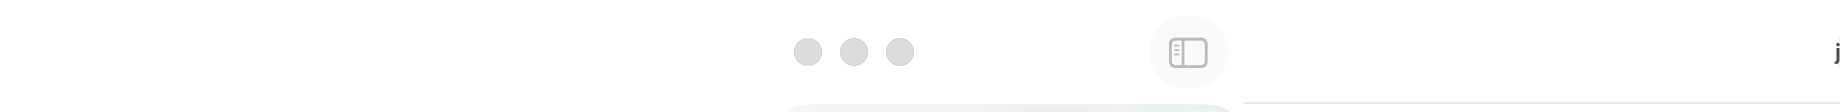
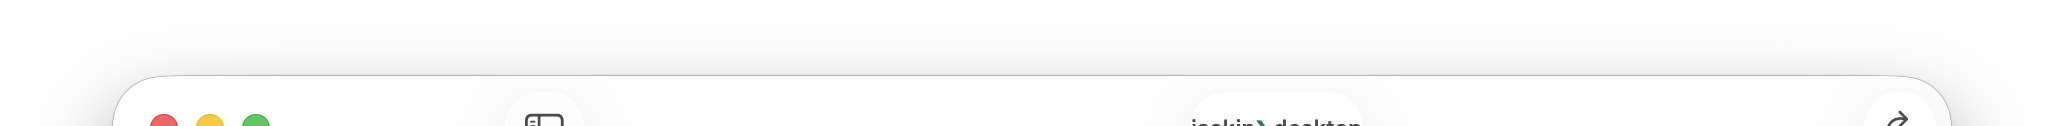
fix(desktop): align active sidebar selection
Active key-window evidence exposed system-blue List selection hidden by inactive captures. Own navigation selection so active pixels retain HTML phosphor well.

diff --git a/native/Sources/JackinDesktop/UsageWindow/UsageWindowRoot.swift b/native/Sources/JackinDesktop/UsageWindow/UsageWindowRoot.swift
@@ -18,8 +18,6 @@ public struct UsageWindowRoot: View {
         self.store = store
     }
 
-    private static let overviewId = "__overview__"
-
     private var model: UsageWindowModel {
         UsageWindowModel(
             glanceRows: store.providerGlanceRows,
@@ -32,22 +30,28 @@ public struct UsageWindowRoot: View {
     public var body: some View {
         let model = self.model
         NavigationSplitView {
-            List(selection: selectionBinding) {
+            List {
                 // HTML `.side` · Browse / Overview (All accounts)
                 Section {
-                    Label {
-                        VStack(alignment: .leading, spacing: 1) {
-                            Text("Overview")
-                                .font(.body.weight(.semibold))
-                            Text("All accounts")
-                                .font(.caption)
-                                .foregroundStyle(.tertiary)
+                    Button {
+                        store.selectUsageSurface(nil)
+                    } label: {
+                        Label {
+                            VStack(alignment: .leading, spacing: 1) {
+                                Text("Overview")
+                                    .font(.body.weight(.semibold))
+                                Text("All accounts")
+                                    .font(.caption)
+                                    .foregroundStyle(.tertiary)
+                            }
+                        } icon: {
+                            sidebarLogoPlate(systemImage: "square.grid.2x2", tint: Color.jackinPhosphor)
                         }
-                    } icon: {
-                        sidebarLogoPlate(systemImage: "square.grid.2x2", tint: Color.jackinPhosphor)
                     }
-                    .tag(Self.overviewId)
+                    .buttonStyle(.plain)
+                    .frame(maxWidth: .infinity, alignment: .leading)
                     .listRowInsets(EdgeInsets(top: 6, leading: 8, bottom: 6, trailing: 8))
+                    .listRowBackground(providerRowBackground(selected: store.usageSelection == nil))
                 } header: {
                     Text("Browse")
                         .font(.caption.weight(.semibold))
@@ -58,8 +62,13 @@ public struct UsageWindowRoot: View {
                 Section {
                     ForEach(model.sidebar) { row in
                         // Provider = identity only (no glance % — lives on account rows).
-                        providerSidebarRow(row)
-                            .tag(row.surfaceId)
+                        Button {
+                            store.selectUsageSurface(row.surfaceId)
+                        } label: {
+                            providerSidebarRow(row)
+                        }
+                            .buttonStyle(.plain)
+                            .frame(maxWidth: .infinity, alignment: .leading)
                             .listRowInsets(EdgeInsets(top: 4, leading: 8, bottom: 4, trailing: 8))
                             .listRowBackground(providerRowBackground(selected: store.usageSelection == row.surfaceId))
                             .accessibilityLabel(providerAccessibilityLabel(row))
@@ -311,16 +320,4 @@ public struct UsageWindowRoot: View {
         return row.displayLabel
     }
 
-    private var selectionBinding: Binding<String?> {
-        Binding(
-            get: { store.usageSelection ?? Self.overviewId },
-            set: { newValue in
-                if newValue == Self.overviewId || newValue == nil {
-                    store.selectUsageSurface(nil)
-                } else {
-                    store.selectUsageSurface(newValue)
-                }
-            }
-        )
-    }
 }

diff --git a/native/Tools/DesktopVisualSnapshotHarness/main.swift b/native/Tools/DesktopVisualSnapshotHarness/main.swift
@@ -580,6 +580,10 @@ struct DesktopVisualSnapshotHarness {
         window.makeMain()
         window.makeKeyAndOrderFront(nil)
         NSApp.activate(ignoringOtherApps: true)
+        DispatchQueue.main.asyncAfter(deadline: .now() + 0.35) {
+            NSApp.stopModal()
+        }
+        NSApp.runModal(for: window)
         window.layoutIfNeeded()
         window.contentViewController?.view.layoutSubtreeIfNeeded()
         // Allow NavigationSplitView + toolbar SF Symbols to composite.
@@ -602,7 +606,6 @@ struct DesktopVisualSnapshotHarness {
             }
             print("BLOCKED \(fullPath) [blank-or-missing window capture]")
             controller.invalidate()
-            NSApp.setActivationPolicy(.prohibited)
             return false
         }
 
@@ -613,7 +616,6 @@ struct DesktopVisualSnapshotHarness {
                 writeBlockedPlaceholder(path: toolbarPath, reason: "full window PNG encode/blank")
             }
             controller.invalidate()
-            NSApp.setActivationPolicy(.prohibited)
             return false
         }
 
@@ -694,7 +696,6 @@ struct DesktopVisualSnapshotHarness {
         }
 
         controller.invalidate()
-        NSApp.setActivationPolicy(.prohibited)
         // Full shell Pass only when sidebar composites (not whiteout).
         return !sidebarWhiteout
     }
@@ -731,8 +732,13 @@ struct DesktopVisualSnapshotHarness {
         // Region capture is forbidden here: another app can occlude these coordinates,
         // producing a plausible nonblank image of the wrong window. Window ID preserves ownership.
         fputs("INFO trying screencapture -l window ID\n", stderr)
-        if let sc = captureWindowViaScreencapture(window: window), !cgImageIsBlank(sc) {
-            return sc
+        for attempt in 0..<3 {
+            if let sc = captureWindowViaScreencapture(window: window), !cgImageIsBlank(sc) {
+                return sc
+            }
+            if attempt < 2 {
+                RunLoop.current.run(until: Date(timeIntervalSinceNow: 0.15))
+            }
         }
         fputs("WARN screencapture -l failed — trying CGWindow\n", stderr)
         if let cg = captureFullWindowCGImage(window: window), !cgImageIsBlank(cg) {

diff --git a/native/Tools/DesktopArchitectureLint/main.swift b/native/Tools/DesktopArchitectureLint/main.swift
@@ -302,14 +302,17 @@ struct DesktopArchitectureLint {
             "UsageAccountRailView(accounts: accts)",
             ".listRowInsets(EdgeInsets(top: 0, leading: 0, bottom: 8, trailing: -12))",
             "desktopProviderBrandChrome(iconKey: iconKey)",
+            "store.selectUsageSurface(row.surfaceId)",
+            ".listRowBackground(providerRowBackground(selected:",
         ]
         if required.allSatisfy(text.contains)
             && !text.contains("listRowBackground(accountNestWellBackground)")
             && !text.contains("private func accountSidebarRow")
+            && !text.contains("List(selection:")
         {
-            print("PASS  Usage account rows share one inset rail")
+            print("PASS  Usage account rows share one inset rail without system selection fill")
         } else {
-            print("FAIL  Usage account nest must retain one labeled inset rail")
+            print("FAIL  Usage sidebar must retain custom selection well and one labeled account rail")
             exit(1)
         }
     }

diff --git a/advisor-plans/VISUAL_QA_LOG.md b/advisor-plans/VISUAL_QA_LOG.md
@@ -14,8 +14,8 @@ DesktopArchitectureLint ALL PASS
 DesktopSoTParityHarness ALL PASS ×3
 DesktopParityMatrixHarness ALL PASS
 StatusItemChipHarness / ProviderMarks ALL PASS
-usage_window_openai_dark/light: STRUCTURAL_INACTIVE
-usage_toolbar_dark/light: readable inactive window-ID crops
+usage_window_openai_dark/light: ACTIVE_OK
+usage_toolbar_dark/light: readable active window-ID crops
 ```
 
 Log: `qi-artifacts/native/desktop-gates.log`
@@ -32,8 +32,9 @@ Log: `qi-artifacts/native/desktop-gates.log`
 | usage-provider-nest | Pass | Pass | none | 57%/0% |
 | usage-detail-openai | Pass | Pass | none | G-P3 component |
 | usage-toolbar | Pass | Pass | none | readable Refresh D+L |
+| usage-window-openai | Pass | Pass | none | active key/main full shell |
 
-**High residual craft product: none known. Active full-window evidence remains blocked.**
+**High residual craft product: none known. Active full-window evidence passes.**
 
 Re-audit closed false-pass primary-control deltas: Usage “Open usage page” now
 uses oracle’s quiet tint + 0.5 pt hairline instead of solid phosphor; popover
@@ -90,6 +91,12 @@ and fixed monochrome provider plates plus collapsed missing-reset row geometry.
 Dark/Light full-shell captures are retained as structurally valid inactive
 evidence, not active craft proof.
 
+Active-window re-audit fixed that evidence limit through a bounded AppKit modal
+event loop. Key/main captures then exposed a real solid-blue system List selection
+that inactive screenshots hid. Sidebar navigation now uses plain row buttons plus
+the oracle phosphor selection well. Dark/Light full-shell captures are active,
+window-ID-owned, and visually aligned.
+
 Popover detail re-audit found another false-pass: three-provider fixture data,
 percentage-bearing account chips, horizontal metadata, uniform phosphor strip
 meters, and clipped terminal sections. The harness now uses the canonical seven
@@ -99,4 +106,4 @@ and full-height detail plates. HTML claims now stay within Rust-backed data.
 ## Live
 popover-live / ctx-menu **BLOCKED** — SoTParity proves focus/menu.
 
-Agent sign-off: G-P3 Pass; multi-limit Pass; active full-window craft BLOCKED.
+Agent sign-off: G-P3 Pass; multi-limit Pass; active full-window craft Pass.

diff --git a/advisor-plans/qi-artifacts/deltas/2026-08-10-usage-window-openai.md b/advisor-plans/qi-artifacts/deltas/2026-08-10-usage-window-openai.md
@@ -14,7 +14,7 @@
 | Detail head | identity + external usage action | same | Yes |
 | Meta | one quiet details group | same | Yes |
 | Limits | one inset divided list | same | Yes |
-| Themes | active Dark and Light renderings | valid window-ID captures; both inactive | Blocked |
+| Themes | active Dark and Light renderings | active key/main window-ID captures | Yes |
 
 ## False-pass correction
 
@@ -29,15 +29,13 @@ and QI host now share one `UsageAccountRailView`, preventing that drift.
 
 Third re-audit found region-based screen capture had accepted pixels from an
 unrelated Telegram window occupying the same coordinates. Region capture is now
-forbidden; evidence uses window ID only. Current Dark and Light captures are
-structurally valid but inactive window captures.
+forbidden; evidence uses window ID only.
 
-## Different (not High)
-
-| Severity | Element | Notes |
-|----------|---------|-------|
-| High | Active full shell | Key-window state unavailable in harness |
+Fourth re-audit activated each window through a bounded AppKit modal event loop.
+Active pixels exposed solid-blue system List selection hidden by inactive captures.
+Sidebar navigation now owns selection through plain buttons and the HTML phosphor
+well; both themes recaptured key/main.
 
 ## Verdict
 
-**Verdict: Blocked** (structure proven; active full-shell pixels unproven)
+**Verdict: Pass** (active Dark + Light full-shell parity)

diff --git a/advisor-plans/qi-artifacts/parity-matrix.md b/advisor-plans/qi-artifacts/parity-matrix.md
@@ -4,8 +4,8 @@
 
 ## High residual craft
 
-Product structure has no known High residual. Active full-window visual parity
-remains blocked: Dark/Light window-ID captures are structurally valid but inactive.
+No known High visual residual. Dark/Light Usage window captures are active,
+key/main, window-ID-owned evidence.
 
 ## Scenes
 | Scene | Dark | Light | Verdict |
@@ -17,8 +17,8 @@ remains blocked: Dark/Light window-ID captures are structurally valid but inacti
 | usage-overview | Pass | Pass | one divided per-account inventory |
 | usage-provider-nest | Pass | Pass | 57%/0% |
 | usage-detail-openai | Pass | Pass | Session/Weekly/Spark/LRC |
-| usage-window-openai | Blocked | Blocked | structurally valid; inactive state |
-| usage-toolbar | Pass | Pass | readable inactive window-ID crops |
+| usage-window-openai | Pass | Pass | active key/main full shell |
+| usage-toolbar | Pass | Pass | readable active window-ID crops |
 
 ## Live
 | Scene | Verdict |
@@ -27,4 +27,4 @@ remains blocked: Dark/Light window-ID captures are structurally valid but inacti
 | ctx-menu-live | BLOCKED |
 
 ## Gates
-L1+L2 ALL PASS · component themes byte-distinct · full-window active craft BLOCKED
+L1+L2 ALL PASS · component themes byte-distinct · full-window active craft PASS

diff --git a/advisor-plans/README.md b/advisor-plans/README.md
@@ -26,11 +26,11 @@ Stamp: foundations **`f4ec1247`**; plan+QI docs ready for `/goal` (2026-08-10). 
 
 | Phase | Focus | Status |
 |-------|--------|--------|
-| **A** | Freeze & re-baseline gaps vs HTML | **TODO** (planning complete; freeze is operator) |
-| **B** | Status bar + click interactions craft | **TODO** |
-| **C** | Popover = `popover.html` craft | **TODO** |
-| **D** | Usage window = `index.html` Usage craft | **TODO** |
-| **E** | Cross-cut polish + VISUAL_QA_LOG sign-off | **TODO** |
+| **A** | Freeze & re-baseline gaps vs HTML | **DONE** — frozen oracle + Dark/Light baselines |
+| **B** | Status bar + click interactions craft | **PARTIAL** — craft/model pass; live click/menu capture blocked |
+| **C** | Popover = `popover.html` craft | **DONE** — Dark/Light full-shell fixture evidence |
+| **D** | Usage window = `index.html` Usage craft | **DONE** — active key/main Dark/Light evidence |
+| **E** | Cross-cut polish + VISUAL_QA_LOG sign-off | **PARTIAL** — gates pass; live interaction/operator sign-off pending |
 
 Structural foundations (code already landed) are summarized in the master plan §4 — do not treat “code exists” as Phase B–E Pass.
 

diff --git a/advisor-plans/qi-artifacts/native/sot-html-parity.md b/advisor-plans/qi-artifacts/native/sot-html-parity.md
@@ -8,7 +8,7 @@
 | OV-5 calendar when known | overviewResetDisplay | **match** selected/glance |
 | Providers strip + detail | TabGrid + PopoverProviderTab | **match** |
 | Open Usage CTA | PopoverFooter | **match** |
-| Usage glass sidebar + solid | craft roles match; inactive window-ID evidence | **BLOCKED** active state |
+| Usage glass sidebar + solid | active key/main window-ID evidence | **match** |
 | Structural Usage bar | nest/detail/overview/toolbar | **accepted** |
 | Meters 3-status; brand plates | severityTint / brandChrome | **match** |
 | No spend/price UI | parity matrix | **match** |

diff --git a/advisor-plans/qi-artifacts/native/sot-confirmed-checklist.md b/advisor-plans/qi-artifacts/native/sot-confirmed-checklist.md
@@ -39,5 +39,5 @@
 | OV-5 unselected multi-account reset | no Account DTO |
 | LG-6 plate hex | interim |
 | UW-O1 open control | footer+menu |
-| Usage full-window glass sidebar | **BLOCKED** active state — Dark/Light window-ID captures inactive |
+| Usage full-window glass sidebar | **met** — Dark/Light key/main window-ID captures |
 | Live NSStatusItem | status-live-nsstatusitem.BLOCKED.txt |
